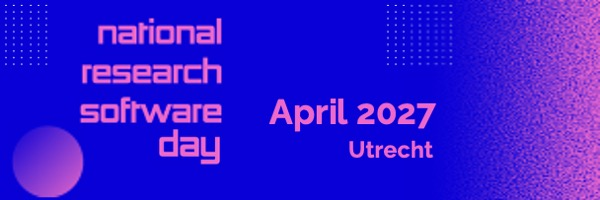
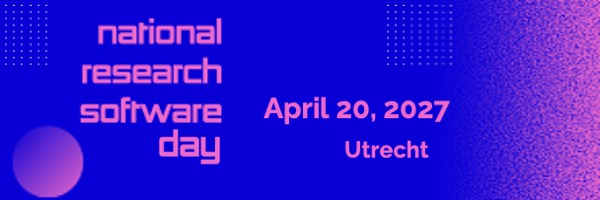
Set April 20 as date for NRSD 2027

Changed region(s): [[0.42, 0.48, 0.75, 0.66], [0.57, 0.69, 0.72, 0.81]]

diff --git a/content/pages/nrsd-2027.md b/content/pages/nrsd-2027.md
@@ -8,7 +8,7 @@ title: National Research Software Day 2027
 
 **The National Research Software Day is coming to Utrecht in April 2027!**
 
-NL-RSE is excited to announce the next edition of the National Research Software Day (NRSD), taking place in **Utrecht in April 2027**.
+NL-RSE is excited to announce the next edition of the National Research Software Day (NRSD), taking place in **Utrecht on April 20, 2027**.
 
 This edition will be hosted by the [Research Data Managers and Engineers](https://www.uu.nl/en/research/research-data-management) (RDM team) at Utrecht University, in collaboration with the [eScience Centre](https://www.esciencecenter.nl) and NL-RSE.
 
@@ -17,5 +17,5 @@ As in previous editions, NRSD 2027 will bring together people from across the Du
 More information about the exact date, program, registration, and call for abstracts will be announced as plans take shape. **Watch this space for updates!**
 
 ## Previous Editions:
-- [NRSD 2024](https://www.esciencecenter.nl/national-research-software-day-2024/)
 - [NRSD 2025](/pages/nrsd-2025-highlights)
+- [NRSD 2024](https://www.esciencecenter.nl/national-research-software-day-2024/)
